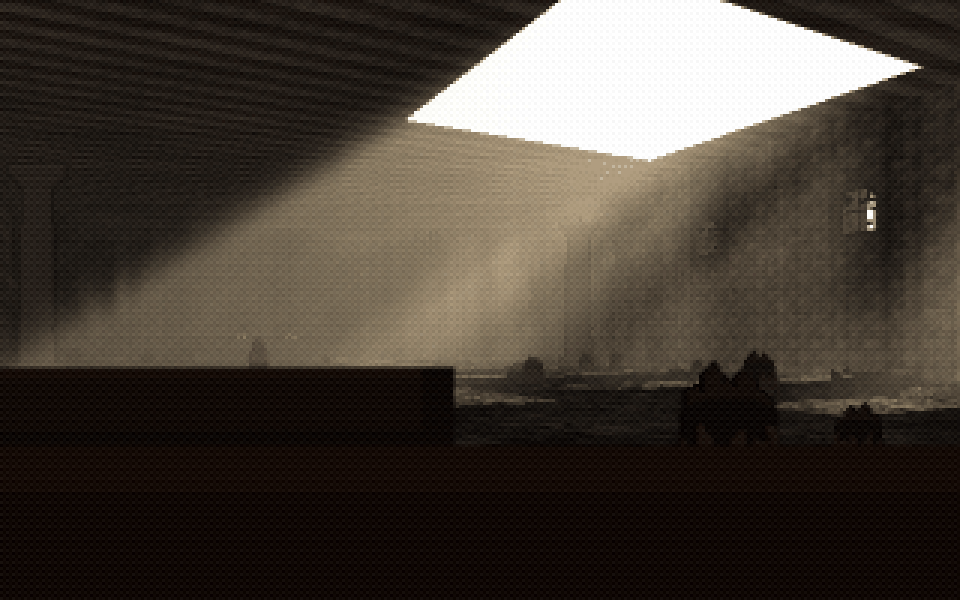
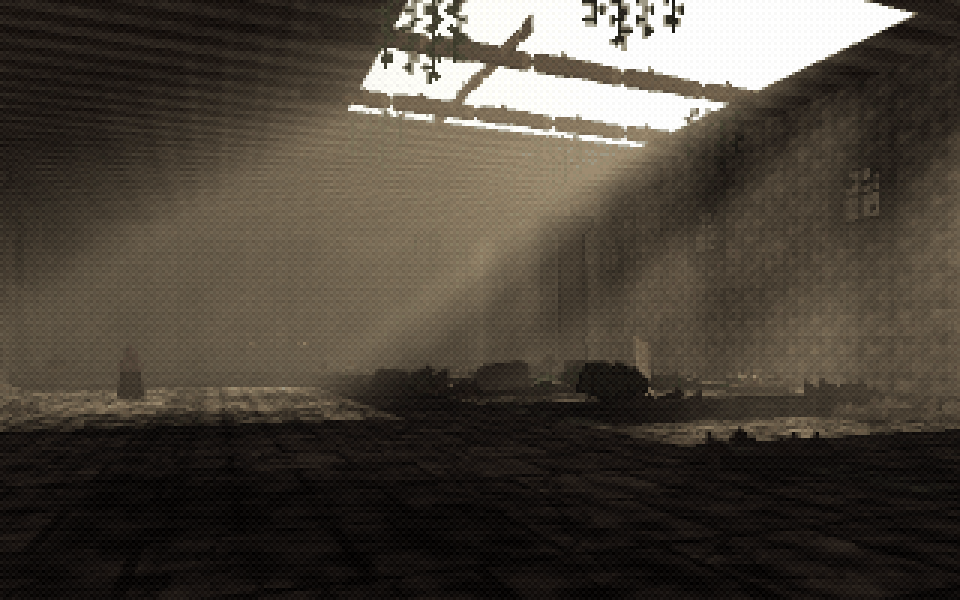
Break the cathedral's roof properly
The hole in the cathedral's roof read as a flat white quad and the nave round it was bare.
Rafters now still span the hole (log cards hung at the ceiling, tinted to old timber) with ivy
hanging from its edges, and under it lie the column drums, a broken column and the rubble that
came down, grass growing in the light. The beam shot stood inside a row of pews, which filled the
foreground with a black slab; it now stands in the aisle. Gallery: cathedral_beam,
cathedral_pilgrim; cathedral_ruin now rated good.

diff --git a/examples/cathedral_ruin.py b/examples/cathedral_ruin.py
@@ -54,14 +54,26 @@ s = scene(
         {'x': 8.0, 'y': 12.0, 'type': 'column', 'scale': 3.2}, {'x': 17.8, 'y': 12.0, 'type': 'column', 'scale': 3.2},
         {'x': 8.0, 'y': 20.0, 'type': 'column', 'scale': 3.2}, {'x': 17.8, 'y': 20.0, 'type': 'column', 'scale': 3.2},
         {'x': 16.0, 'y': 8.0, 'type': 'ivy_hang', 'z': 2.6},
+        # the fallen roof: rafters still spanning the hole, ivy hanging from its edges, and under it
+        # the column drums and rubble that came down, grass growing in the light
+        *[{'x': 15.0, 'y': y, 'type': 'log', 'planes': 1, 'angle': 0, 'length': 5.6, 'scale': 0.3, 'z': 3.68,
+           'shadow': False, 'tint': [0.55, 0.45, 0.38]} for y in (15.1, 16.9)],
+        {'x': 14.2, 'y': 16.0, 'type': 'log', 'planes': 1, 'angle': 90, 'length': 3.4, 'scale': 0.26, 'z': 3.72,
+         'shadow': False, 'tint': [0.5, 0.42, 0.36]},
+        *[{'x': x, 'y': y, 'type': 'ivy_hang', 'z': 3.0, 'scale': 1.0, 'flip': k % 2 == 1}
+          for k, (x, y) in enumerate(((13.4, 14.1), (16.4, 14.1), (17.9, 16.0), (14.6, 18.9), (13.1, 17.5)))],
+        {'x': 14.4, 'y': 16.4, 'type': 'column_drum'}, {'x': 16.3, 'y': 15.2, 'type': 'column_drum', 'flip': True},
+        {'x': 15.6, 'y': 17.6, 'type': 'broken_column', 'scale': 1.1},
+        {'x': 13.6, 'y': 15.0, 'type': 'rubble', 'scale': 0.5}, {'x': 17.0, 'y': 17.8, 'type': 'rubble', 'scale': 0.4},
     ],
-    scatter=[{'of': 'rubble', 'on': '.o', 'density': 0.18, 'sizes': ['tiny', 'small', 'medium'], 'seed': 4}],
+    scatter=[{'of': 'rubble', 'on': '.o', 'density': 0.18, 'sizes': ['tiny', 'small', 'medium'], 'seed': 4},
+             {'of': 'undergrowth', 'on': 'o', 'density': 0.9, 'clump': 1.2, 'seed': 7}],
     grime=0.3,
     camera={'x': 12.8, 'y': 31.5, 'look_at': [12.8, 3.0, 1.2], 'fov': 70},
     shots=[
         {'x': 12.8, 'y': 31.5, 'look_at': [12.8, 3.0, 1.2], 'fov': 70,
          'overlays': [{'type': 'caption', 'text': 'The nave, morning', 'at': 'top', 'box': True}]},
-        {'x': 9.0, 'y': 24.0, 'look_at': [17.0, 9.0, 1.6], 'fov': 70},
+        {'x': 11.2, 'y': 24.0, 'look_at': [17.0, 9.0, 1.7], 'fov': 70},
         {'x': 10.8, 'y': 20.8, 'look_at': [10.6, 10.0, 1.0], 'fov': 62},
     ],
     contact_shadows=0.5,

diff --git a/docs/ASSETS.md b/docs/ASSETS.md
@@ -38,8 +38,8 @@ The smoke test fails while this file is out of date. Sheets show textures tiled 
 | GUI widgets | 16 | 16 | 0 | 0 | 0 |
 | Post presets | 20 | 20 | 0 | 0 | 0 |
 | Palettes | 9 | 9 | 0 | 0 | 0 |
-| Example scenes | 47 | 42 | 5 | 0 | 0 |
-| **all** | **611** | **586** | **25** | **0** | **0** |
+| Example scenes | 47 | 43 | 4 | 0 | 0 |
+| **all** | **611** | **587** | **24** | **0** | **0** |
 <!-- /summary -->
 
 ## Pass plan
@@ -326,19 +326,19 @@ Camera-facing sprites. "tall" is the default height in world units (a wall is 1)
 | prop | status | traits | used in | notes |
 |---|---|---|---|---|
 | `boulder` | good | 0.55 tall | chapel_graveyard, coast_lighthouse, kelp_forest, misty_moor, woodland_night | Redrawn with the toolkit in forest.py: a settled rock with a lesser lobe and cracks, moss over its top, lichen spots. |
-| `bush` | good | 0.5 tall | chapel_graveyard, coast_lighthouse, woodland_night | Redrawn with the toolkit in forest.py: leaf clusters on fanned twigs, lit on top, dark underneath. |
+| `bush` | good | 0.5 tall | cathedral_ruin, chapel_graveyard, coast_lighthouse, woodland_night | Redrawn with the toolkit in forest.py: leaf clusters on fanned twigs, lit on top, dark underneath. |
 | `bush_autumn` | good | 0.5 tall | autumn_lane | Drawn with the toolkit in forest.py: the bush in rust red and orange. |
 | `bush_snow` | good | 0.45 tall | winter_woods | Drawn with the toolkit in forest.py: a lumpy cushion of snow, blue in its hollows, twigs poking up through it. |
 | `birch` | good | 3 tall | village_green, woodland_night | White trunk and a second stem banded with black, an airy crown of small leaves in drooping clumps. |
 | `birch_autumn` | good | 3 tall | autumn_lane | Drawn with the toolkit in forest.py: the birch gone to gold, a few patches already orange. |
 | `birch_winter` | good | 3 tall | winter_woods | Drawn with the toolkit in forest.py: the white birch bare: branches reaching out with fine twigs weeping from them, snow on a few. |
 | `dead_tree` | good | 2.9 tall | chapel_graveyard, haunted_house, misty_moor, woodland_night | Redrawn with the toolkit in forest.py: a split trunk on a gnarled foot, bare limbs forking into twigs, grey peeling bark. |
-| `fern` | good | 0.42 tall | autumn_lane, chapel_graveyard, jungle_temple, misty_moor, tropical_beach, woodland_night | Redrawn: arching fronds from one crown. |
+| `fern` | good | 0.42 tall | autumn_lane, cathedral_ruin, chapel_graveyard, jungle_temple, misty_moor, tropical_beach, woodland_night | Redrawn: arching fronds from one crown. |
 | `flowers` | good | 0.35 tall | garden_encounter, gui_menus, hospital_garden, post_presets, rainy_street, village_green | Redrawn with the toolkit in basics.py: leaves and stems with blooms of four colours, five petals round a dark eye, at different heights. |
-| `grass_tuft` | good | 0.4 tall | autumn_lane, chapel_graveyard, coast_lighthouse, misty_moor, rainy_street, tropical_beach, village_green, woodland_night | Redrawn: thin arching blades. |
+| `grass_tuft` | good | 0.4 tall | autumn_lane, cathedral_ruin, chapel_graveyard, coast_lighthouse, misty_moor, rainy_street, tropical_beach, village_green, woodland_night | Redrawn: thin arching blades. |
 | `ivy_hang` | good | 0.8 tall, no shadow | cathedral_ruin, rainy_street |  |
-| `log` | good | 0.28 tall | tropical_beach, winter_lake, winter_woods, woodland_night | Redrawn with the toolkit in forest.py: bark in long ridges, a branch stub, moss along the top, a pale ringed end. |
-| `mushrooms` | good | 0.12 tall | autumn_lane, chapel_graveyard, jungle_temple, woodland_night |  |
+| `log` | good | 0.28 tall | cathedral_ruin, tropical_beach, winter_lake, winter_woods, woodland_night | Redrawn with the toolkit in forest.py: bark in long ridges, a branch stub, moss along the top, a pale ringed end. |
+| `mushrooms` | good | 0.12 tall | autumn_lane, cathedral_ruin, chapel_graveyard, jungle_temple, woodland_night |  |
 | `palm` | good | 3.2 tall | garden_encounter, gui_menus, hospital_garden, post_presets, tropical_beach | Redrawn with the pixel-art toolkit: a ringed trunk, arching ragged fronds, coconuts. |
 | `pine` | good | 3.4 tall | autumn_lane, coast_lighthouse, woodland_night | Redrawn with the toolkit in forest.py: a spruce, tier on tier of drooping boughs with ragged hems over a straight trunk. |
 | `reeds` | good | 0.8 tall | coast_lighthouse, winter_woods |  |
@@ -467,8 +467,8 @@ Camera-facing sprites. "tall" is the default height in world units (a wall is 1)
 
 | prop | status | traits | used in | notes |
 |---|---|---|---|---|
-| `broken_column` | good | 1 tall | ancient_ruins |  |
-| `column_drum` | polish | 0.42 tall | ancient_ruins | The fluted end face could stand out more from the body. |
+| `broken_column` | good | 1 tall | ancient_ruins, cathedral_ruin |  |
+| `column_drum` | polish | 0.42 tall | ancient_ruins, cathedral_ruin | The fluted end face could stand out more from the body. |
 | `marble_head` | good | 1.1 tall | ancient_ruins |  |
 | `amphora` | good | 0.36 tall | ancient_ruins |  |
 | `cow_skull` | good | 0.2 tall | ghost_town, red_canyon | Drawn with the toolkit in desert.py: a bleached longhorn skull: dark sockets and nose, horns curving out and up. |
@@ -664,7 +664,7 @@ Named mixes for `scatter`; repeats in the contents act as weights.
 | `snow` | good | rocks x3, boulder_snow | winter_lake, winter_woods | The stones set for winter: its boulder is under snow, not moss. |
 | `rubble` | good | rubble x2, rocks, broken_barrel | cathedral_ruin, rainy_street |  |
 | `forest` | good | rocks x2, log, stump, mushrooms, grass_tuft x2, fern, bush | woodland_night |  |
-| `undergrowth` | good | grass_tuft x3, fern, bush, mushrooms | chapel_graveyard, woodland_night |  |
+| `undergrowth` | good | grass_tuft x3, fern, bush, mushrooms | cathedral_ruin, chapel_graveyard, woodland_night |  |
 | `autumn` | good | grass_tuft x2, fern, bush_autumn x2, mushrooms | autumn_lane | The undergrowth set for the fall: its bush turned. |
 | `shore` | good | rocks x3, boulder, reeds, bones | coast_lighthouse |  |
 | `litter` | good | sack, bucket, crate, barrel, broken_barrel, bones | neon_street, rain_alley |  |
@@ -881,7 +881,7 @@ The environments, judged on their gallery images and shots.
 | scene | status | shots | gallery | notes |
 |---|---|---|---|---|
 | `castle_keep` | good | 5 | castle_throne, castle_gate | The throne hall closer: a great stained-glass window, banners and candelabras behind a larger throne, guards at the steps, the knight to one side. |
-| `cathedral_ruin` | polish | 3 | cathedral_beam, cathedral_pilgrim | The hole in the roof reads as a flat white quad; the nave is bare. |
+| `cathedral_ruin` | good | 3 | cathedral_beam, cathedral_pilgrim | The beam through the fallen roof, rafters still spanning the hole with ivy hanging from it, column drums and rubble in the light; shot from the aisle. |
 | `crystal_cave` | good | 3 | cave_beast |  |
 
 ### Space, alien and dream
@@ -926,6 +926,7 @@ The environments, judged on their gallery images and shots.
 ## Pass log
 
 - **2026-10-19, pass 0.** First full review of every asset, on review sheets and in the gallery. This file and `docs/asset_review.py` were added.
+- **2026-10-19, the fallen roof.** cathedral_ruin: rafters across the hole in the roof (`log` cards at the ceiling) with ivy hanging from its edges, column drums, a broken column and rubble under it, grass in the light, and the beam shot moved out of the pews into the aisle.
 - **2026-10-19, the throne hall.** castle_keep: the camera closer, a larger throne under a great stained-glass window, banners and candelabras on the dais, guards at the foot of the steps, the knight to one side.
 - **2026-10-19, the stone circle.** `menhir`, `menhir_top` and a `stone_cap` prop: the misty moor's stones get varied heights, weathered faces and slanted, chipped tops instead of flat-topped blocks.
 - **2026-10-19, polish pass 4.** `alien_rock` (faceted, glowing in its crevices), `alien_ground`, `dry_grass` (fewer, larger clumps), and the `jaguar` redrawn prowling side on in rosettes.
